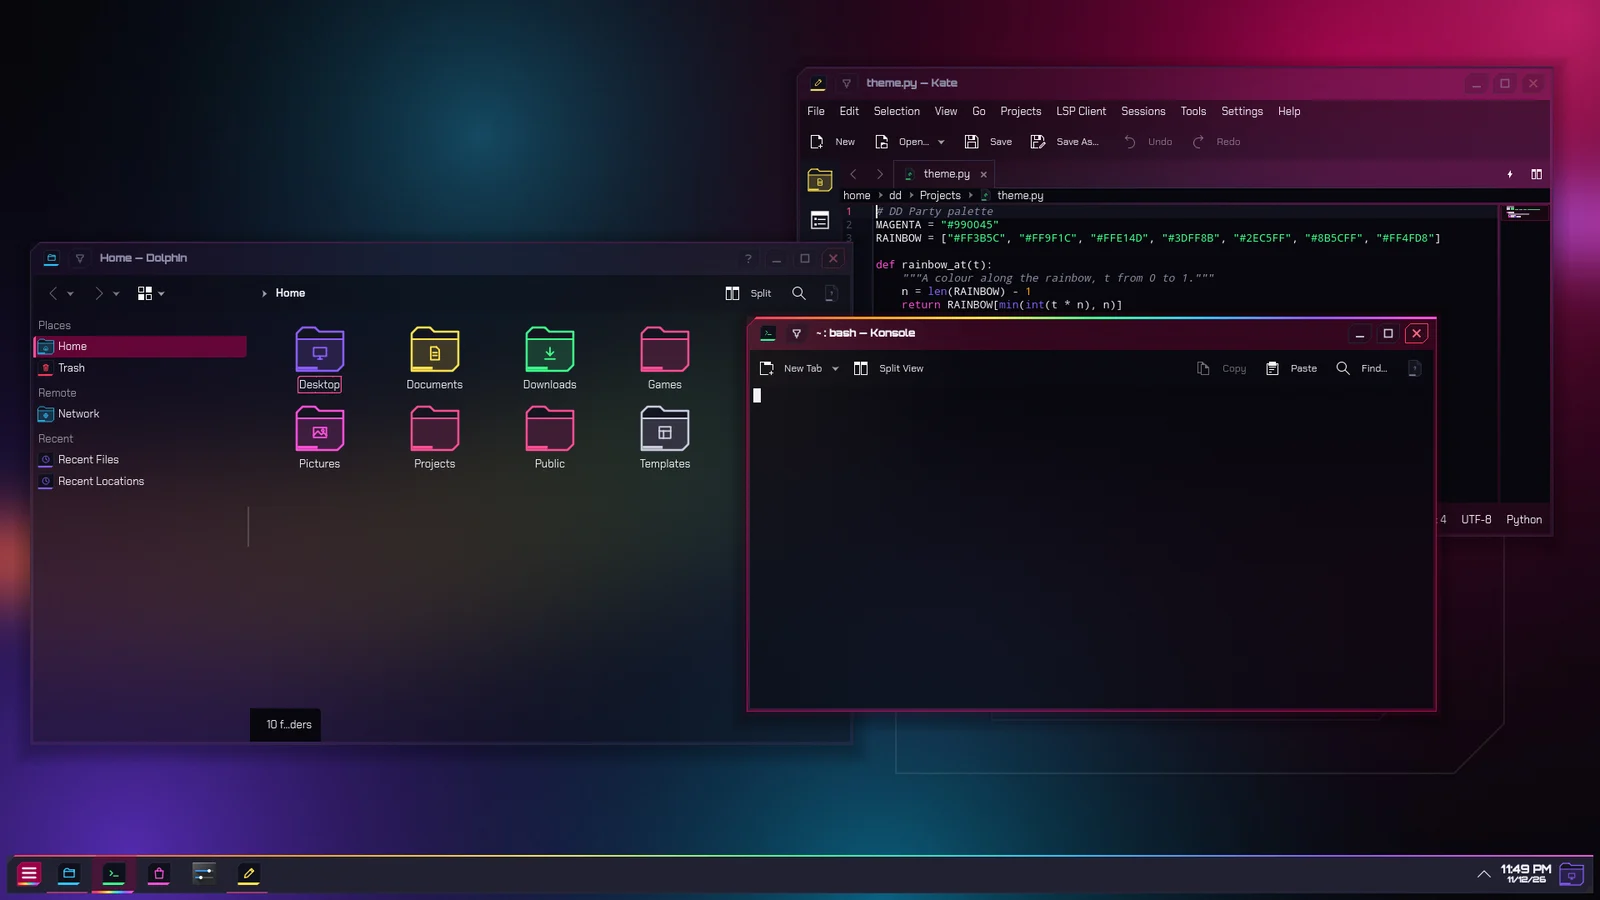
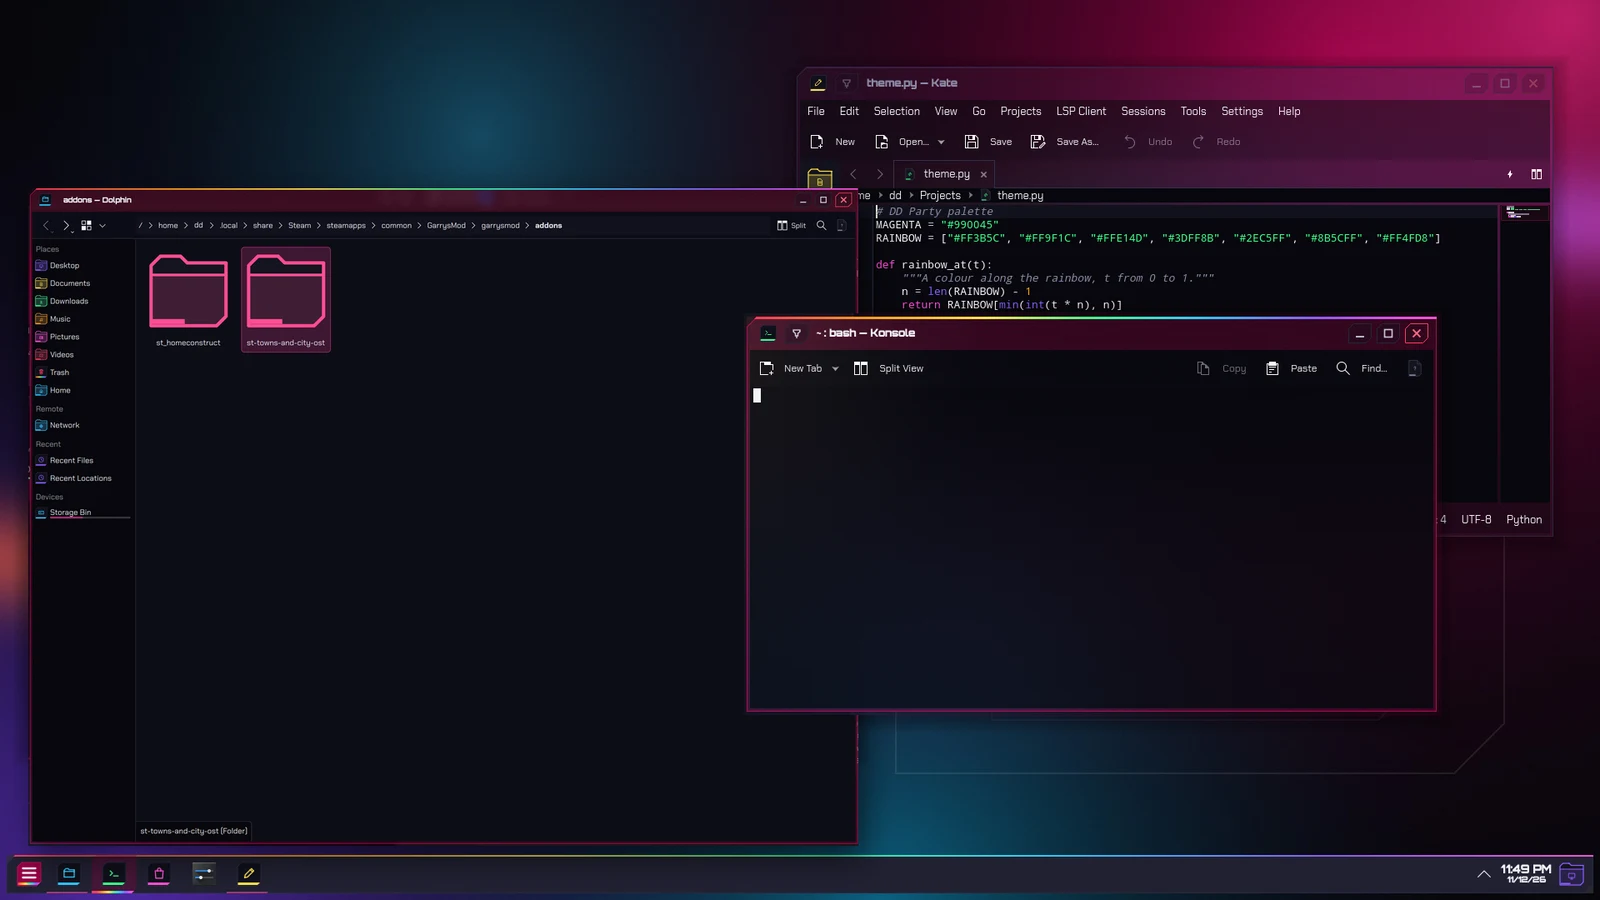
Hero: the real DD Party Dolphin window
Steven's own Dolphin screenshot from the phone in place of the theme
preview's Dolphin (the user folder in its path shown as dd).

Claude-Session: https://claude.ai/code/session_01XNwWZNDWs3WAkYTdE7RZo1

Changed region(s): [[0.0, 0.1867, 0.5625, 0.9644], [0.4375, 0.3111, 0.5, 0.3422]]

diff --git a/index.html b/index.html
@@ -284,7 +284,7 @@ footer .wrap{display:flex;flex-wrap:wrap;gap:20px;justify-content:space-between;
       <span class="chip"><b>Free software,</b> GPL-3.0</span>
     </div>
     <div class="hero-shot">
-      <div class="frame"><div class="frame-top"></div><img src="img/hero-glass.webp" alt="DeskDroid desktop in DD Party Glass: Dolphin, Kate and Konsole with translucent, blurred windows over the wallpaper" width="1600" height="900"></div>
+      <div class="frame"><div class="frame-top"></div><img src="img/hero-glass.webp" alt="DeskDroid desktop in DD Party Glass: Dolphin, Kate and Konsole over the wallpaper, with glass title bars" width="1600" height="900"></div>
     </div>
   </div>
 </header>
